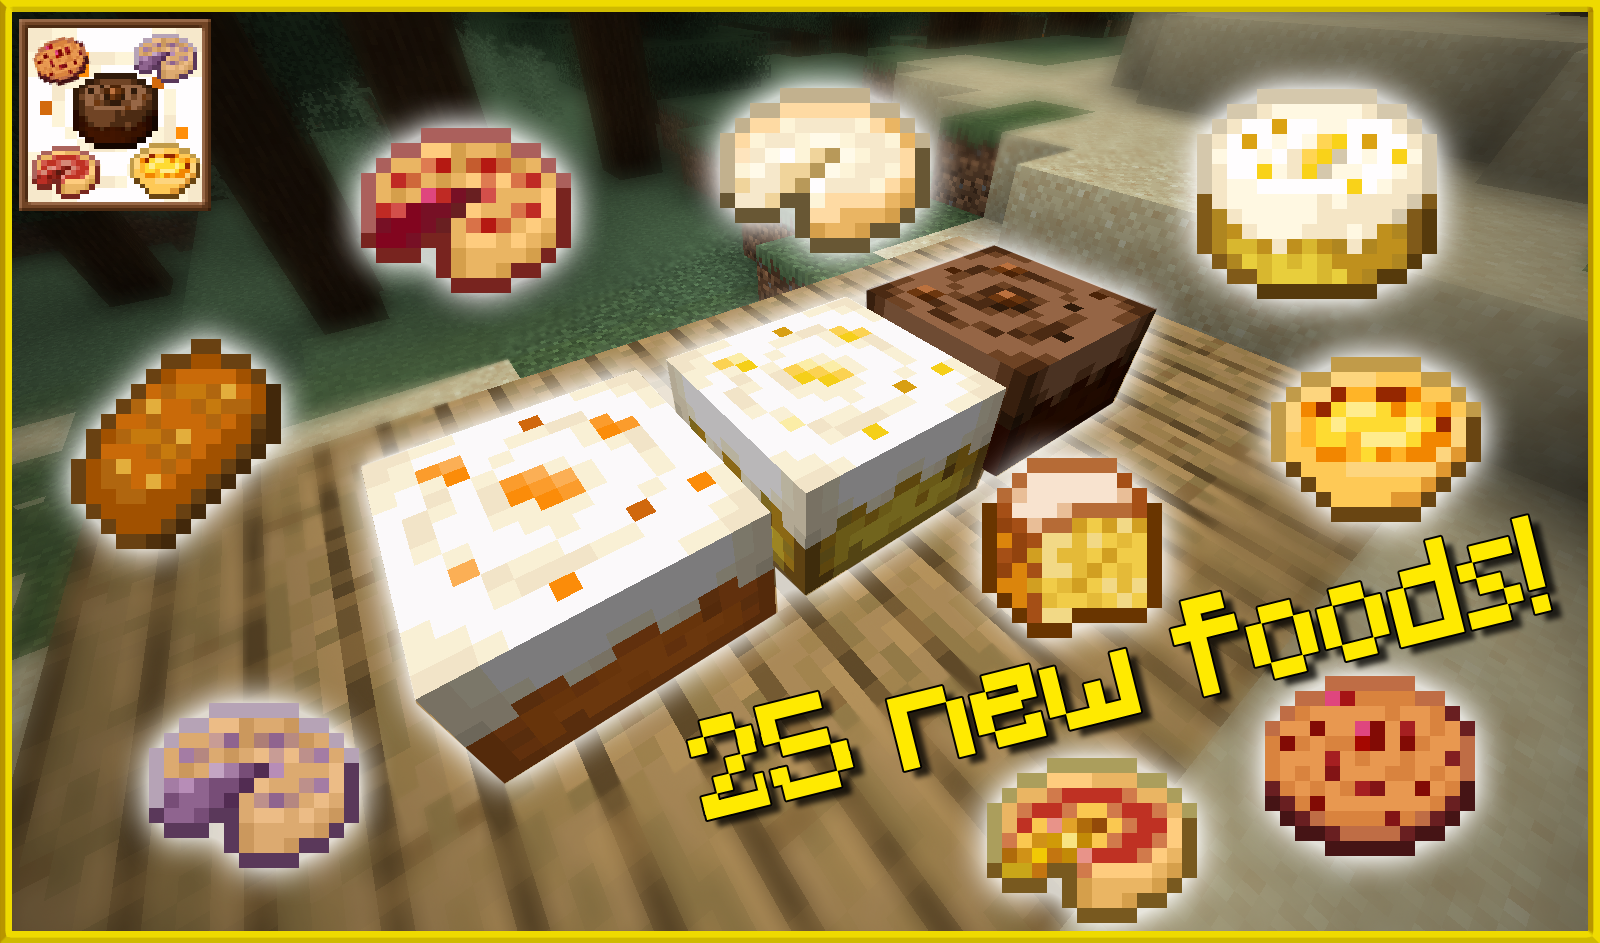
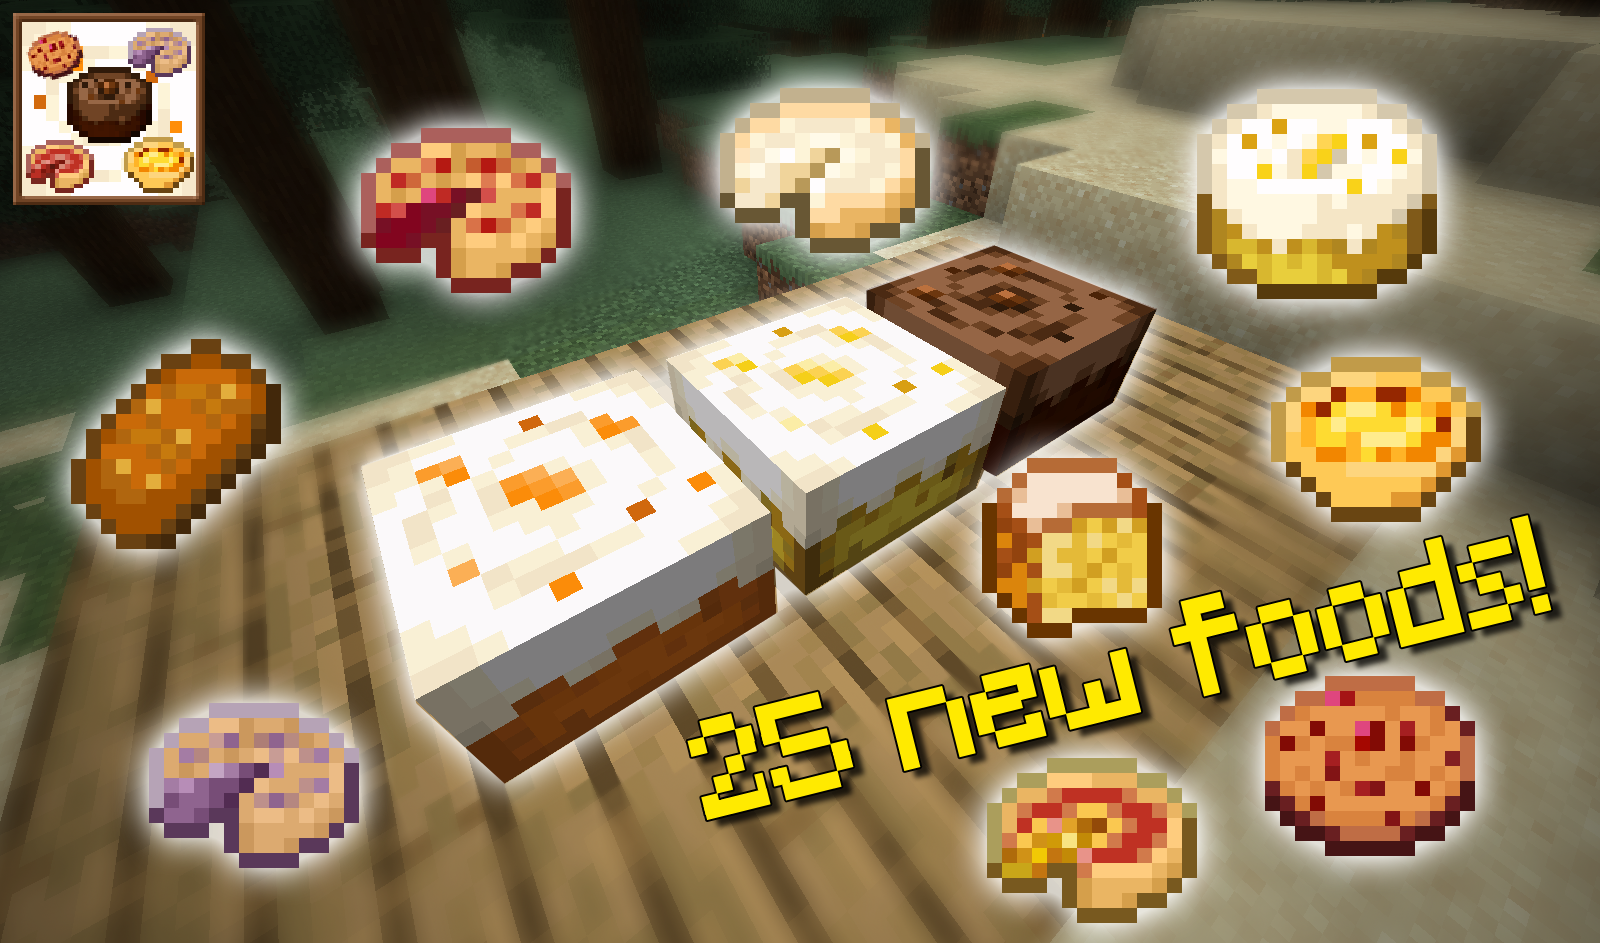
baked goods 2.0

Changed region(s): [[0.0, 0.0, 1.0, 1.0]]

diff --git a/pages/baked_goods.md b/pages/baked_goods.md
@@ -4,34 +4,44 @@ keywords: minecraft, datapack, baking, cooking, food
 tags: [datapack, resourcepacks, standalone, crafting, food]
 sidebar: home_sidebar
 toc: true
-last_updated: 05/Jan/2024
+last_updated: 30/Apr/2024
 permalink: baked_goods.html
 published: true
 pmc: https://www.planetminecraft.com/data-pack/daenvil-s-baked-goods/
 first_release: ["10","Nov","2022"]
-last_release: ["15","Jun","2023"]
+last_release: ["30","Apr","2023"]
 logo: baked_goods/pack.png
 thumbnail: baked_goods/thumbnail.png
 intro: A datapack which adds new pies, cakes, cookies, and other baked goods to Minecraft. Bake apple pies, chocolate cakes, glow berry cookies, and many more! See <a href="#new-recipes">below</a> for the full list of recipes. Foods with golden apples/carrots/melon, chorus fruit, and glow berries provide <a href="#special-effects">special effects</a> when eating them.
 abstract: "Adds 25 new baked goods to Minecraft, including apple pies, chocolate cakes, berry cookies, and many more."
 priority: 0
 index: 13
-gallery: [images/baked_goods/thumbnail.png,images/baked_goods/screenshots/carrot_cakes.png,images/baked_goods/screenshots/golden_carrot_cakes.png,images/baked_goods/screenshots/chocolate_cakes.png]
+downloads: 2600
+downloads_str: "&gt;2.6k"
+gallery: [images/baked_goods/thumbnail.png,images/baked_goods/screenshots/carrot_cakes.png,images/baked_goods/screenshots/recipe_book.png,images/baked_goods/screenshots/golden_carrot_cakes.png,images/baked_goods/screenshots/chocolate_cakes.png]
 ---
 
 ## Downloads
 
 <ul id="profileTabs" class="nav nav-tabs">
-    <li class="active"><a href="#current" data-toggle="tab">1.20+</a></li>
+    <li class="active"><a href="#current" data-toggle="tab">1.20.5+</a></li>
+    <li><a href="#legacy1-20" data-toggle="tab">1.20–1.20.4</a></li>
     <li><a href="#legacy" data-toggle="tab">1.19.x</a></li>
 </ul>
 
 <div class="tab-content">
     <div role="tabpanel" class="tab-pane active" id="current">
         <p>
-            {% include dp_badges.html supports="1.20+" tested="1.20.1, 1.20.4" %}
+            {% include dp_badges.html supports="1.20.5+" tested="1.20.5, 1.20.6" %}
             <br/>
-            {% include dp_download.html version="v1.1" pmc-url="https://www.planetminecraft.com/data-pack/daenvil-s-baked-goods/" rp-version="v1.1" rp-pmc-url="https://www.planetminecraft.com/data-pack/daenvil-s-baked-goods/" %}
+            {% include dp_download.html version="v2.0" pmc-url="https://www.planetminecraft.com/data-pack/daenvil-s-baked-goods/" rp-version="v2.0" rp-pmc-url="https://www.planetminecraft.com/data-pack/daenvil-s-baked-goods/" %}
+        </p>
+    </div>
+    <div role="tabpanel" class="tab-pane" id="legacy1-20">
+        <p>
+            {% include dp_badges.html supports="1.20–1.20.4" tested="1.20.1, 1.20.4" %}
+            <br/>
+            {% include dp_download.html version="v1.1" dropbox-url="https://www.dropbox.com/scl/fi/7ssntdk82uaguxu0ncm9n/daenvils_baked_goods_v1.1.zip?rlkey=e0vry5uj3ijafxwbx5yf0svet&st=p4x1rkz7&dl=1" rp-version="v1.1" rp-dropbox-url="https://www.dropbox.com/scl/fi/mmjkes59hlr22ihy4x5pb/daenvils_baked_goods_RP_v1.1.zip?rlkey=w1rcyowchnigwakfdv9doozol&st=pwzuu162&dl=1" discontinued=true %}
         </p>
     </div>
     <div role="tabpanel" class="tab-pane" id="legacy">
@@ -54,22 +64,20 @@ gallery: [images/baked_goods/thumbnail.png,images/baked_goods/screenshots/carrot
 
 ### New recipes
 
-{% include comments/important.html content="These recipes will output a knowledge book, the knowledge book will convert automatically into the desired item once you click on it." %}
-{% include comments/tip.html content="All these recipes are unshaped, you don't need to put the ingredients in the same order as shown here." %}
+{% include comments/tip.html content="All these recipes are unshaped, you don't need to put the ingredients in a specific order." %}
 
 #### <ins>Egg-based pies</ins>
 _<ins>Base ingredients: wheat + sugar + egg</ins>_
 
-All egg-based pies are crafted with the **base ingredients plus 2 of their main ingredient**, and provide the same hunger/saturation as a pumpkin pie, unless stated otherwise in the recipe list below.
+All egg-based pies are crafted with the **base ingredients plus their main ingredient**:
 
-- **Carrot pie**: _base ingredients + **2 carrots**_.
-- **Golden carrot pie**: _base ingredients + **2 golden carrots**_. Provides a total of 6.5 {% include image/drumstick.html %} drumsticks and 14.8 saturation, and [special effects\*](#golden-carrot-foods).
-- **Sweet berry pie**: _base ingredients + **2 sweet berries**_.
-- **Glow berry pie**: _base ingredients + **2 glow berries**_. Provides [special effects\*](#glow-berry-foods).
-- **Melon pie**: _base ingredients + **2 melon slices**_.
-- **Glistering melon pie**: _base ingredients + **2 glistering melon slices**_. Provides [special effects\*](#glistering-melon-pie).
-- **Cream pie**: _base ingredients + **2 milk buckets**_. Provides a total of 5 {% include image/drumstick.html %} drumsticks and 8.8 saturation.
-
+- **Carrot pie**: _base ingredients + **1 carrot**_.
+- **Golden carrot pie**: _base ingredients + **1 golden carrot**_. Provides [special effects\*](#golden-carrot-foods).
+- **Sweet berry pie**: _base ingredients + **1 sweet berry**_.
+- **Glow berry pie**: _base ingredients + **1 glow berry**_. Provides [special effects\*](#glow-berry-foods).
+- **Melon pie**: _base ingredients + **1 melon slice**_.
+- **Glistering melon pie**: _base ingredients + **1 glistering melon slice**_. Provides [special effects\*](#glistering-melon-pie).
+- **Cream pie**: _base ingredients + **1 milk bucket**_.
 
 <p align=center>
 {% include image/basic.html src='baked_goods/textures/carrot_pie.png' width='32' nn=true %}
@@ -86,14 +94,14 @@ All egg-based pies are crafted with the **base ingredients plus 2 of their main 
 #### <ins>Simple pies</ins>
 _<ins>Base ingredients: wheat + sugar</ins>_
 
-All simple pies, with the exception of the mushroom pie, are crafted with the **base ingredients plus 1 of their main ingredient**, and provide the same hunger/saturation as a pumpkin pie, unless stated otherwise in the recipe list below.
+All simple pies, with the exception of the mushroom pie, are crafted with the **base ingredients plus their main ingredient**.
 
 
 - **Apple pie**: _base ingredients + **1 apple**_. 
-- **Golden apple pie**: _base ingredients + **1 golden apple**_. Provides a total of 5 {% include image/drumstick.html %} drumsticks and 8.8 saturation, and [special effects\*](#golden-apple-pies).
-- **Enchanted golden apple pie**: _base ingredients + **1 enchanted golden apple**_. Provides a total of 5 {% include image/drumstick.html %} drumsticks and 8.8 saturation, and [special effects\*](#golden-apple-pies).
+- **Golden apple pie**: _base ingredients + **1 golden apple**_. Provides [special effects\*](#golden-apple-pies).
+- **Enchanted golden apple pie**: _base ingredients + **1 enchanted golden apple**_. Provides [special effects\*](#golden-apple-pies).
 - **Chorus fruit pie**: _base ingredients + **1 <ins>popped</ins> chorus fruit**_. Provides [special effects\*](#chorus-fruit-pie).
-- **Mushroom pie**: _**wheat** + **2 red or brown mushrooms**_. Provides a total of 5 {% include image/drumstick.html %} drumsticks and 8.8 saturation.
+- **Mushroom pie**: _**wheat** + **2 red or brown mushrooms**_.
 
 <p align=center>
 {% include image/basic.html src='baked_goods/textures/apple_pie.png' width='32' nn=true %}
@@ -126,13 +134,13 @@ All cakes are crafted with the **base ingredients plus 3 of their main ingredien
 
 #### <ins>Cookies and breads</ins>
 
-All cookies and breads are crafted with **2 wheat plus 1 of their main ingredient**, and provide the same hunger/saturation as regular cookies and bread, except stated otherwise in the recipe list below.
+All cookies and breads are crafted with **2 wheat plus 1 of their main ingredient**. The cookies take half of regular time to eat (0.8 seconds).
 
 - **Sugar cookies**: _2 wheat + **1 sugar**_.
-- **Sweet berry cookies**: _2 wheat + **1 sweet berries**_.
-- **Glow berry cookies**: _2 wheat + **1 glow berries**_. Provides [special effects\*](#glow-berry-foods).
+- **Sweet berry cookies**: _2 wheat + **1 sweet berry**_.
+- **Glow berry cookies**: _2 wheat + **1 glow berry**_. Provides [special effects\*](#glow-berry-foods).
 - **Carrot bread**: _2 wheat + **1 carrot**_.
-- **Golden carrot bread**: _2 wheat + **1 golden carrot**_. Provides a total of 4.5 {% include image/drumstick.html %} drumsticks and 14 saturation, and [special effects\*](#golden-carrot-foods).
+- **Golden carrot bread**: _2 wheat + **1 golden carrot**_. Provides [special effects\*](#golden-carrot-foods).
 - **Pumpkin bread**: _2 wheat + **1 pumpkin**_.
 
 <p align=center>
@@ -148,12 +156,10 @@ All cookies and breads are crafted with **2 wheat plus 1 of their main ingredien
 
 #### <ins>Others</ins>
 
-These other recipes all provide the same hunger/saturation as pumpkin pie, unless stated otherwise in the recipe list below.
-
-- **Sponge cake**: _wheat + sugar + 2 eggs_.
-- **Cocoa sponge cake**: _wheat + sugar + egg + cocoa beans_.
-- **Custard tart**: _wheat + sugar + egg + milk bucket_. Provides a total of 4.5 {% include image/drumstick.html %} drumsticks and 6.8 saturation.
-- **Mushroom quiche**: _wheat + egg + milk bucket + 2 red or brown mushrooms_. Provides a total of 5.5 {% include image/drumstick.html %} drumsticks and 10.8 saturation.
+- **Sponge cake**: _wheat + sugar + 2 eggs_. Takes half of regular time to eat (0.8 seconds).
+- **Cocoa sponge cake**: _wheat + sugar + egg + cocoa beans_. Takes half of regular time to eat (0.8 seconds).
+- **Custard tart**: _wheat + sugar + 2 eggs + milk bucket_. Takes half of regular time to eat (0.8 seconds).
+- **Mushroom quiche**: _wheat + egg + milk bucket + 2 red or brown mushrooms_.
 
 <p align=center>
 {% include image/basic.html src='baked_goods/textures/sponge_cake.png' width='32' nn=true %}
@@ -188,18 +194,50 @@ Eating a glistering melon pie provides **2 hearts of instant health** (same as a
 
 #### <ins>Glow berry foods</ins>
 
-Glow berry foods **end the Darkness effect** and provide **night vision** for a short time (5 seconds for cookies and 20 seconds for pies).
+Glow berry foods **end the Darkness effect** and provide **night vision** and the **glow effect** for a short time (5 seconds for cookies and 20 seconds for pies).
 
 #### <ins>Chorus fruit pie</ins>
 
-When eating a chorus fruit pie, you will be **teleported randomly within 32 blocks**, as if you just ate a chorus fruit (with four times more range). In addition, it has some interactions with endermen:
+When eating a chorus fruit pie, you will be **teleported randomly within 32 blocks**, as if you just ate a chorus fruit (with four times more range).
 
-- When holding a chorus fruit pie on any hand, nearby endermen are attracted to it, having a chance of teleporting near you.
-- When eating a chorus fruit pie near endermen (<64 blocks), they may become angry towards you.
+### Available commands
+
+All foods have their own "give" function, which can be used to give yourself the food if you have admin privileges or cheats turned on. The command is ``/function dnv.baking:give/<item_id>``.
+
+- E.g. ``/function dnv.baking:give/golden_carrot_pie`` will give you a golden carrot pie.
+
+### Food hunger and saturation values
+
+The following table contains the hunger restored and saturation given by each custom food (except cake slices). These are roughly calculated from their ingredients.
+
+| Food                     | Hunger restored | Saturation |
+|--------------------------|-----------|------------|
+| carrot pie               | 4.5 {% include image/drumstick.html %} drumsticks |       12.6 |
+| golden carrot pie        | 6 {% include image/drumstick.html %} drumsticks |       20.0 |
+| sweet berry pie          | 4 {% include image/drumstick.html %} drumsticks |        6.2 |
+| glow berry pie           | 4 {% include image/drumstick.html %} drumsticks |        6.2 |
+| melon pie                | 4 {% include image/drumstick.html %} drumsticks |        7.8 |
+| glistering melon pie     | 6 {% include image/drumstick.html %} drumsticks |       19.8 |
+| cream pie                | 3 {% include image/drumstick.html %} drumsticks |        0.4 |
+| apple pie                | 4 {% include image/drumstick.html %} drumsticks |        5.8 |
+| golden apple pie         | 4 {% include image/drumstick.html %} drumsticks |       13.0 |
+| enchanted apple pie      | 4 {% include image/drumstick.html %} drumsticks |       13.0 |
+| chorus fruit pie         | 4 {% include image/drumstick.html %} drumsticks |        5.8 |
+| mushroom pie             | 3.5 {% include image/drumstick.html %} drumsticks |        9.2 |
+| sponge cake              | 2 {% include image/drumstick.html %} drumsticks |        3.7 |
+| cocoa sponge cake        | 2.5 {% include image/drumstick.html %} drumsticks |        2.3 |
+| custard tart             | 2 {% include image/drumstick.html %} drumsticks |        2.4 |
+| mushroom quiche          | 4.5 {% include image/drumstick.html %} drumsticks |        8.5 |
+| sugar cookie             | 1 {% include image/drumstick.html %} drumstick |        2.2 |
+| sweet berry cookie       | 1 {% include image/drumstick.html %} drumstick |        2.1 |
+| glow berry cookie        | 1 {% include image/drumstick.html %} drumstick |        2.1 |
+| carrot bread             | 3 {% include image/drumstick.html %} drumsticks |        7.6 |
+| golden carrot bread      | 4.5 {% include image/drumstick.html %} drumsticks |       18.4 |
+| pumpkin bread            | 3.5 {% include image/drumstick.html %} drumsticks |        5.4 |
 
 ### Vegancraft compatibility
 
-This datapack was made to be compatible with my _[Plant-based Foods](plant-based_foods.html)_ datapack. As such, **if _Plant-based Foods_ is also installed, you will be able to replace eggs with wheat or potato in any of the recipes**, and the custom naming and advancements of that datapack are also supported by the foods in this datapack. _None of this will affect you if you don't have that datapack installed_.
+This datapack was made to be compatible with my _[Plant-based Foods](plant-based_foods.html)_ datapack. As such, **if _Plant-based Foods_ is also installed, you will be able to replace eggs with wheat or potato in any of the recipes**, and the custom advancements of that datapack are also supported by the foods in this datapack. _None of this will affect you if you don't have that datapack installed_.
 
 ## Other credits
 

diff --git a/_includes/changelogs/baked_goods/v2.0.md b/_includes/changelogs/baked_goods/v2.0.md
@@ -1,0 +1,41 @@
+
+- All items now have their own "give" function, which can be used to give yourself the food if you have admin privileges or cheats turned on. The command is ``/function dnv.baking:give/<item_id>``.
+  - E.g. ``/function dnv.baking:give/golden_carrot_pie`` will give you a golden carrot pie.
+- Adapted recipes to new format, hugely simplifying the datapack and allowing the custom items to appear in the recipe book as if they were regular vanilla items.
+- New nutrition and saturation values to all foods except cake slices (see the table below). Each food now has these values roughly calculated from their ingredients, so they are more balanced.
+- All cookies added by this datapack, the sponge cakes, and custard tart are now twice as fast to eat (0.8 seconds).
+- Glow berry foods now also provide the glowing effect.
+- Holding chorus fruit pies no longer attracts endermen and eating a chorus fruit pie no longer angers nearby endermen.
+- Some items, such as foods with golden carrots or apples now have a "rarity" level, showing their name in a different color.
+- Changes to existing recipes:
+  - The egg-based pies now require only 1 of their main ingredient instead of 2.
+  - Custard tart recipe now requires an additional egg (to avoid conflict with cream pie recipe)
+  - The sponge cake and custard tart recipes now output 2 items instead of 1.
+- Adapted to work with any ``player.block_interaction_range`` attribute value.
+- Optimized the chorus fruit pie's teleport mechanic using the ``random`` command.
+- Fixed bug where golden carrot cake special effects were not being granted when eating its last slice.
+
+| Food                     | Nutrition | Saturation |
+|--------------------------|-----------|------------|
+| carrot pie               |         9 |       12.6 |
+| golden carrot pie        |        12 |       20.0 |
+| sweet berry pie          |         8 |        6.2 |
+| glow berry pie           |         8 |        6.2 |
+| melon pie                |         8 |        7.8 |
+| glistering melon pie     |        12 |       19.8 |
+| cream pie                |         6 |        0.4 |
+| apple pie                |         8 |        5.8 |
+| golden apple pie         |         8 |       13.0 |
+| enchanted apple pie      |         8 |       13.0 |
+| chorus fruit pie         |         8 |        5.8 |
+| mushroom pie             |         7 |        9.2 |
+| sponge cake              |         4 |        3.7 |
+| cocoa sponge cake        |         5 |        2.3 |
+| custard tart             |         4 |        2.4 |
+| mushroom quiche          |         9 |        8.5 |
+| sugar cookie             |         2 |        2.2 |
+| sweet berry cookie       |         2 |        2.1 |
+| glow berry cookie        |         2 |        2.1 |
+| carrot bread             |         6 |        7.6 |
+| golden carrot bread      |         9 |       18.4 |
+| pumpkin bread            |         7 |        5.4 |

diff --git a/_posts/2024-04-30-baked_goods_v2.0.md b/_posts/2024-04-30-baked_goods_v2.0.md
@@ -1,0 +1,20 @@
+---
+title:  "Daenvil's Baked Goods - v2.0 release"
+published: true
+permalink: baked_goods_v2.0.html
+summary: "Rework for MC1.20.5 + balance changes + optimization"
+tags: [news,changelog]
+datapack: baked_goods
+changelog: v2.0
+---
+
+This one was a ton of work to update, but now this datapack is much better thanks to the new 1.20.5 components. For me, the main improvement is just being able to see all recipes in the in-game recipe book:
+
+{% include image/basic.html src='baked_goods/screenshots/recipe_book.png' alt='Screenshot of the in-game recipe book, where all recipes are visible' align='center' width='300' nn=true %}
+
+See below for a detailed log of changes. Bon appetit!
+
+<div class="btn-group">
+    <a href="baked_goods_v1.1.html" role="button" class="btn btn-primary"><i class="fa fa-caret-left"></i>&nbsp; Previous release: v1.1</a>
+    <button role="button" class="btn btn-default disabled">Next release: TBR &nbsp;<i class="fa fa-caret-right"></i> </button>
+</div>

diff --git a/_posts/2023-06-15-baked_goods_v1.1.md b/_posts/2023-06-15-baked_goods_v1.1.md
@@ -14,5 +14,5 @@ Bon appetit!
 
 <div class="btn-group">
     <a href="baked_goods_v1.0.1.html" role="button" class="btn btn-primary"><i class="fa fa-caret-left"></i>&nbsp; Previous release: v1.0.1</a>
-    <button role="button" class="btn btn-default disabled">Next release: TBR &nbsp;<i class="fa fa-caret-right"></i> </button>
+    <a href="baked_goods_v2.0.html" role="button" class="btn btn-primary">Next release: v2.0 &nbsp;<i class="fa fa-caret-right"></i></a>
 </div>
